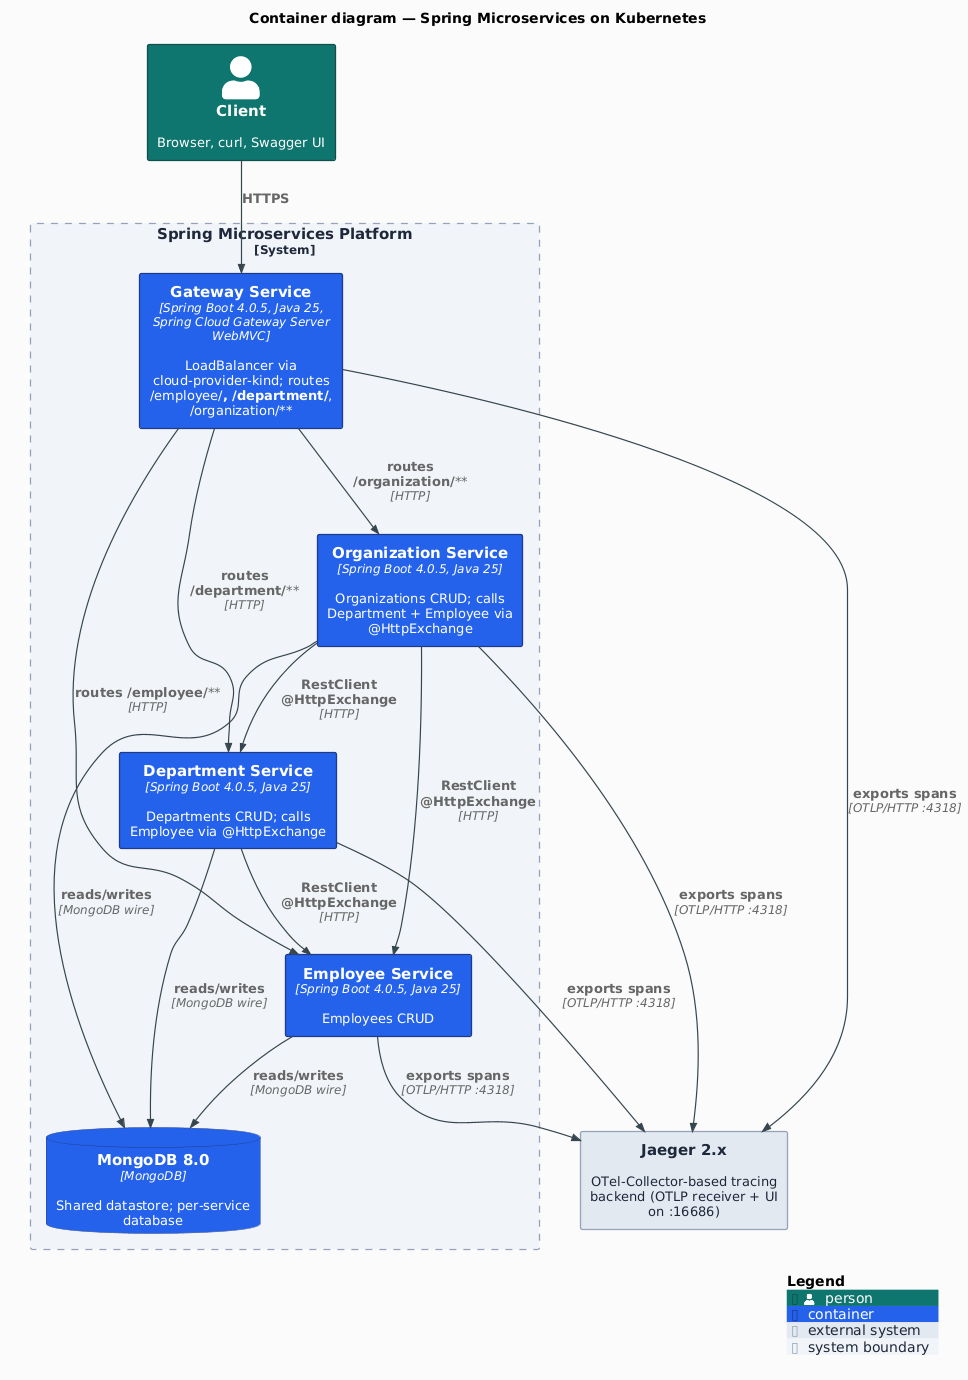
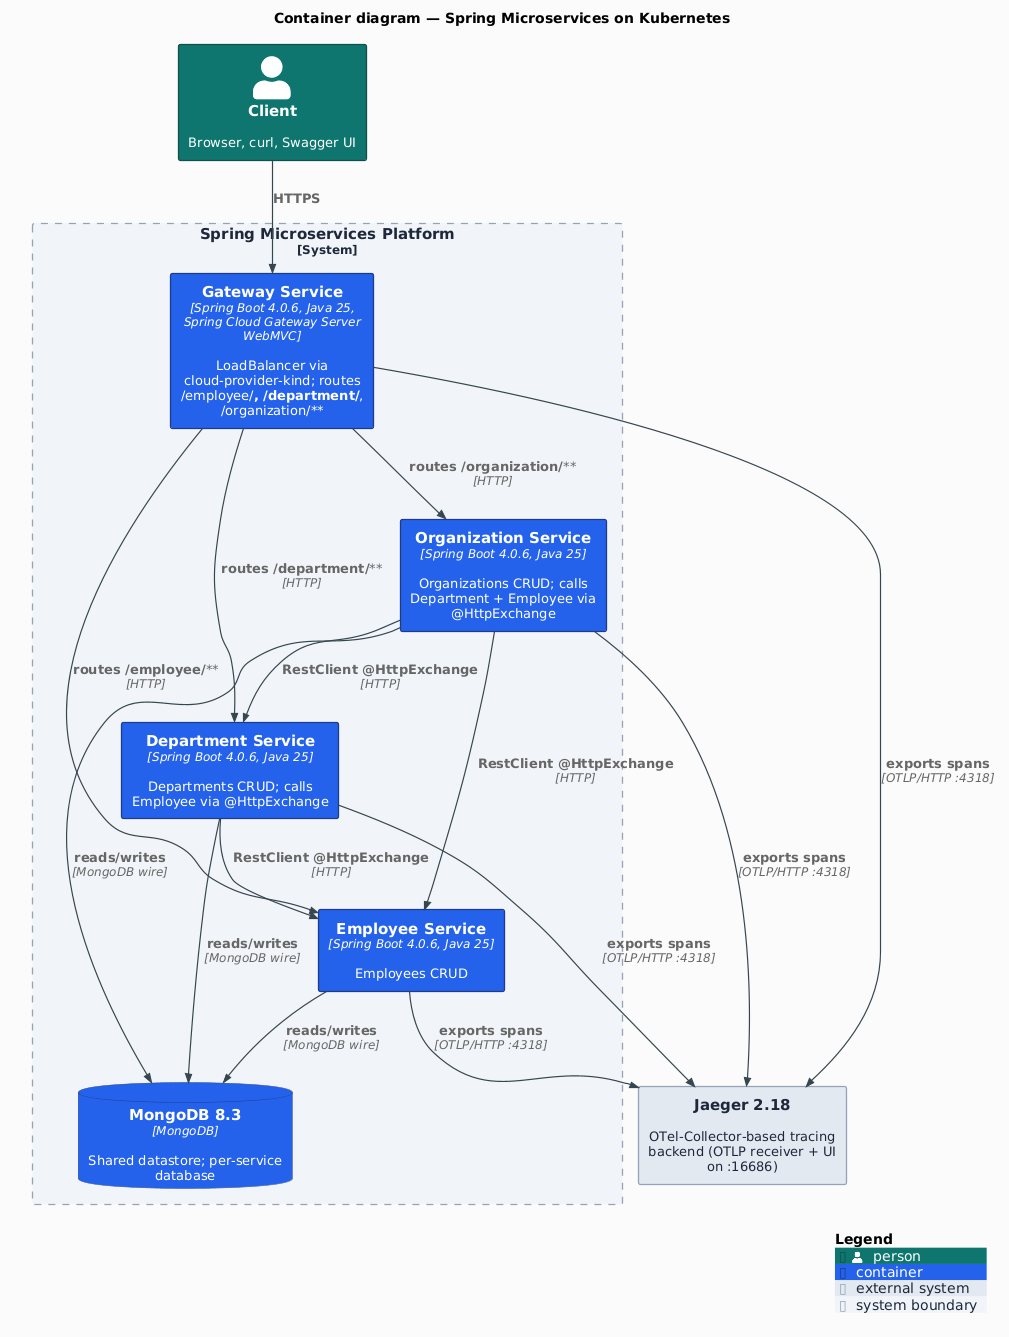
chore: apply project-review fixes across infra and docs (#65)
Phase A — foundation:
- Makefile: drop the duplicate unit-suite run from `ci` (coverage-generate
  already runs `mvn test`); explicit `deps` prereq on `static-check`;
  extract a shared GJF_EXPORTS var; TODO(workaround) anchor on `cve-check`;
  pin `renovate@latest` in `renovate-validate`
- renovate.json: explicit/exhaustive ignorePaths; cross-manager MongoDB
  group; disable automerge on the jackson/tomcat/BouncyCastle CVE overrides
- ci.yml: force `changes.outputs.code`/`e2e` true on tag pushes so a `v*`
  tag at master HEAD cannot empty-diff-skip `cve-check` and ghost-skip the
  release `docker` job
- .nvmrc / .mise.toml: node 22 -> 24 (renovate@latest requires node ^24.11)

Phase A.5 — diagrams:
- c4-container / c4-deployment puml: Spring Boot 4.0.5 -> 4.0.6,
  MongoDB 8.0 -> 8.3, Jaeger -> 2.18 (matches jaegertracing/jaeger:2.18.0);
  regenerated PNGs

Phase B — docs:
- README: align H1 with the GitHub About; architect-voice surface-split
  description; MongoDB 8.3; Java 25 LTS; Quick Start trimmed to 5 commands;
  add `diagrams-clean`; fix sequence-diagram step numbers
- CLAUDE.md: refresh stale backlog rows (jackson 3.1.3, tomcat 11.0.22,
  ODC 12.2.2, mongo 8.3.2, cosign-installer v4.1.2); add the missing
  BouncyCastle CVE-2026-5598 override row; correct the Java-25-is-LTS
  error; refresh Tech Stack versions

Pull request: chore: apply project-review fixes across infra and docs
## Summary

Applies the `/project-review` findings across the project's infrastructure and documentation. Eight parallel review agents (Makefile, CI, Renovate, README, CLAUDE.md, Docker pipeline, test coverage, architecture diagrams) produced 50 findings; this PR applies the actionable subset and declines the false positives with rationale.

### Phase A — foundation

- **Makefile** — `ci` no longer runs the unit suite twice (`coverage-generate` already runs `mvn test`); `static-check` gets an explicit `deps` prereq; shared `GJF_EXPORTS` var; `TODO(workaround)` anchor on `cve-check`; `renovate@latest` pinned in `renovate-validate`.
- **renovate.json** — explicit/exhaustive `ignorePaths`; cross-manager `MongoDB` group; `automerge: false` on the jackson/tomcat/BouncyCastle CVE overrides.
- **ci.yml** — **the one HIGH fix**: a `v*` tag at `master` HEAD could make `dorny/paths-filter` compute an empty diff → `cve-check` skips → the release `docker` job cascade-skips → green run, **zero images published**. `changes.outputs.code`/`e2e` are now forced `true` on tag refs.
- **.nvmrc / .mise.toml** — node 22→24 (`renovate@latest` requires node `^24.11`).

### Phase A.5 — diagrams

C4 puml tech-strings: Spring Boot 4.0.5→4.0.6, MongoDB 8.0→8.3, Jaeger→2.18 (matches `jaegertracing/jaeger:2.18.0`); PNGs regenerated.

### Phase B — docs
[…]

diff --git a/CLAUDE.md b/CLAUDE.md
@@ -36,7 +36,7 @@ make gateway-open  # Open Swagger UI
 
 ```bash
 make test              # Unit + in-process controller tests (Surefire, seconds)
-make integration-test  # Testcontainers + Failsafe **/*IT.java (tens of seconds)
+make integration-test  # Testcontainers + WireMock + Failsafe **/*IT.java (tens of seconds)
 make e2e               # Full Kind-cluster e2e via gateway LoadBalancer (minutes)
 ```
 
@@ -62,13 +62,13 @@ make kind-undeploy # Remove services but keep the cluster running
 
 ## Tech Stack
 
-- Java 25, Spring Boot 4.0, Spring Cloud Kubernetes (2025.1)
+- Java 25 (LTS), Spring Boot 4.0, Spring Cloud Kubernetes (2025.1.1)
 - RestClient with @HttpExchange (inter-service communication)
-- Micrometer Tracing + OpenTelemetry OTLP exporter → Jaeger 2.x (OTel-Collector-based; in-cluster, `observability` namespace; UI exposed via LoadBalancer Service on :16686 — cloud-provider-kind allocates the IP, `make jaeger-open`)
+- Micrometer Tracing + OpenTelemetry OTLP exporter → Jaeger 2.18 (OTel-Collector-based; in-cluster, `observability` namespace; UI exposed via LoadBalancer Service on :16686 — cloud-provider-kind allocates the IP, `make jaeger-open`)
 - Maven multi-module build
 - Docker (multi-arch via buildx)
 - Kubernetes (Kind + cloud-provider-kind for local dev — LoadBalancer Services resolve via the `kind` Docker network)
-- MongoDB 8.0 (official `mongo` image, non-root UID 999, version-pinned for Renovate)
+- MongoDB 8.3 (official `mongo` image, non-root UID 999, version-pinned for Renovate)
 - Testcontainers (integration tests)
 - Checkstyle + hadolint + gitleaks + Trivy + PlantUML drift check + `mermaid-cli` (Mermaid lint) (static analysis composite gate via `make static-check`)
 
@@ -78,17 +78,18 @@ Each row carries an explicit **Revisit-if** list of observable conditions. When 
 
 | # | Item | Status | Revisit-if (any trigger fires → re-open) | Notes |
 |---|------|--------|-----------------------------------------|-------|
-| 1 | Drop `tools.jackson.core:jackson-core` override | **Trigger fired (2026-05-01)** — ready to remove | SB 4.0.6 BOM ships `<jackson-bom.version>3.1.2</jackson-bom.version>`, identical to the override | Module poms pin `tools.jackson.core:jackson-core:3.1.2` in `<dependencyManagement>` to fix **GHSA-2m67-wjpj-xhg9** (HIGH — Document length constraint bypass). Verified via `repo1.maven.org/maven2/org/springframework/boot/spring-boot-dependencies/4.0.6/spring-boot-dependencies-4.0.6.pom`. Action: delete the `<dependency>` block from all 4 module poms; re-render `docs/diagrams/c4-container.puml` + `c4-deployment.puml` (patch version "4.0.5" appears in Container labels; run `make diagrams` and commit `docs/diagrams/out/`). |
-| 1b | Drop `org.apache.tomcat.embed:tomcat-embed-core` override | **Trigger fired (2026-05-01)** — ready to remove | SB 4.0.6 BOM ships `<tomcat.version>11.0.21</tomcat.version>`, identical to the override | Module poms pin `tomcat-embed-core:11.0.21` to fix **CVE-2026-34483 / -34486 / -34487** (all HIGH). Verified via the same SB 4.0.6 BOM lookup. Paired with #1 — same PR removes both overrides and re-renders C4 diagrams. |
-| 1c | Remove `continue-on-error: true` from `cve-check` job's OWASP step | Blocked on upstream fix (dependency-check/DependencyCheck#8424) | - `jeremylong/open-vulnerability-clients#106` closed<br>- OWASP Dependency-Check releases a version > `12.2.1`<br>- NVD rolls back the 9-digit nanosecond timestamp change (check https://nvd.nist.gov/vuln/data-feeds)<br>- A full CI run passes with `continue-on-error` removed locally | **2026-04-15**: NVD changed its API `timestamp` field from 6-digit microsecond to 9-digit nanosecond precision. ODC's Jackson `ZonedDateTime` deserializer in `CveApiJson20` can't parse the new format; every `cve-check` run fails with `DateTimeParseException: unparsed text found at index 23`. Affects ODC 12.2.0 and 12.2.1 (the latest). Upstream maintainer's quote: *"ODC will be broken when using the NVD API for ever"* until the upstream client library is fixed and a new ODC release ships it. Coverage is not lost in the interim — the `image-scan` job runs Trivy with CRITICAL/HIGH blocking on every push across the 4-service matrix, and it catches the same class of CVEs at the image layer (Trivy caught CVE-2026-34483/34486/34487 in tomcat-embed-core 11.0.20 during the ship-it pipeline that introduced this backlog entry). Remove the `continue-on-error: true` flag on the "Run OWASP dependency check" step in `.github/workflows/ci.yml` when any trigger fires. |
-| 2 | `actions/cache` Node 20 deprecation (transitive via `sigstore/cosign-installer`) | Blocked on upstream | - `sigstore/cosign-installer` releases a version past `v4.1.1`<br>- Current date ≥ 2026-08-16 (one month before runner enforcement) and upstream still hasn't shipped | Node 20 hard-removed from GitHub Actions runners **2026-09-16**. The cache action is a transitive dep inside `sigstore/cosign-installer@v4.1.1` — we're already on latest. Renovate will ship the next cosign-installer release automatically. No manual action; track so it doesn't surprise us in Sept. |
-| 3 | Java 25 → Java 29 LTS migration | Planned for Q3–Q4 2027 | - Java 29 GA announced (target 2027-09)<br>- Java 25 security backports end (earlier than Java 29 GA would be unusual but possible) | Java 25 is a non-LTS release (6-month support). Next LTS is **Java 29** (Sep 2027). No action needed now — Temurin 25 still receives security backports through its standard window, and the `eclipse-temurin:25.0.2_10-jre-noble@sha256:…` digest is re-pinned by Renovate when new patches ship. Plan the Java 29 bump when `.java-version`, parent pom `<java.version>`, the `java = "25"` pin in `.mise.toml`, and `JAVA_MAJOR` in the Makefile move together. |
+| 1 | Drop `tools.jackson.core:jackson-core` override | Re-verify before removal — override drifted past the BOM-parity claim | SB 4.0.6 BOM's `<jackson-bom.version>` is confirmed ≥ `3.1.3` — verify via `repo1.maven.org/maven2/org/springframework/boot/spring-boot-dependencies/4.0.6/spring-boot-dependencies-4.0.6.pom` | Module poms pin `tools.jackson.core:jackson-core:3.1.3` in `<dependencyManagement>` to fix **GHSA-2m67-wjpj-xhg9** (HIGH — Document length constraint bypass). Renovate has bumped the override past the original `3.1.1` fix floor, so the earlier "BOM ships an identical version" rationale no longer holds — re-confirm the SB 4.0.6 BOM ships ≥ `3.1.3` before deleting the `<dependency>` block from all 4 module poms. |
+| 1b | Drop `org.apache.tomcat.embed:tomcat-embed-core` override | Re-verify before removal — override drifted past the BOM-parity claim | SB 4.0.6 BOM's `<tomcat.version>` is confirmed ≥ `11.0.22` — verify via the same SB 4.0.6 BOM lookup | Module poms pin `tomcat-embed-core:11.0.22` to fix **CVE-2026-34483 / -34486 / -34487** (all HIGH). Renovate has bumped the override past the original `11.0.21` fix floor; re-confirm the SB 4.0.6 BOM ships ≥ `11.0.22` before deleting. Paired with #1 — same PR removes both overrides. |
+| 1d | Drop `org.bouncycastle:bcpkix/bcutil/bcprov-jdk18on` override | Blocked on upstream — wait for `io.kubernetes:client-java` | `io.kubernetes:client-java` (transitive via `spring-cloud-starter-kubernetes-client-all`) ships a release that pulls BouncyCastle ≥ `1.84` | Module poms pin `bcpkix-jdk18on` / `bcutil-jdk18on` / `bcprov-jdk18on` to `1.84` in `<dependencyManagement>` to fix **CVE-2026-5598** (HIGH — BC-JAVA private key leakage via a non-constant-time operation), pulled in transitively (affected up to and including `1.80`; PR #54, merged 2026-05-07). Renovate's `BouncyCastle` group keeps the three artifacts on the same version. Remove the override block from all 4 module poms once `client-java` pulls `1.84+` directly. |
+| 1c | Remove `continue-on-error: true` from `cve-check` job's OWASP step | Blocked on upstream fix (dependency-check/DependencyCheck#8424) | - `jeremylong/open-vulnerability-clients#106` closed<br>- OWASP Dependency-Check releases a version > `12.2.2`<br>- NVD rolls back the 9-digit nanosecond timestamp change (check https://nvd.nist.gov/vuln/data-feeds)<br>- A full CI run passes with `continue-on-error` removed locally | **2026-04-15**: NVD changed its API `timestamp` field from 6-digit microsecond to 9-digit nanosecond precision. ODC's Jackson `ZonedDateTime` deserializer in `CveApiJson20` can't parse the new format; every `cve-check` run fails with `DateTimeParseException: unparsed text found at index 23`. Affects ODC 12.2.0 through 12.2.2 (the parent pom currently pins `12.2.2`; the `continue-on-error` flag is still required, so 12.2.2 did not fix the parser). Upstream maintainer's quote: *"ODC will be broken when using the NVD API for ever"* until the upstream client library is fixed and a new ODC release ships it. Coverage is not lost in the interim — the `image-scan` job runs Trivy with CRITICAL/HIGH blocking on every push across the 4-service matrix, and it catches the same class of CVEs at the image layer (Trivy caught CVE-2026-34483/34486/34487 in tomcat-embed-core 11.0.20 during the ship-it pipeline that introduced this backlog entry). Remove the `continue-on-error: true` flag on the "Run OWASP dependency check" step in `.github/workflows/ci.yml` when any trigger fires. |
+| 2 | `actions/cache` Node 20 deprecation (transitive via `sigstore/cosign-installer`) | Blocked on upstream | - `sigstore/cosign-installer` releases a version past `v4.1.2`<br>- Current date ≥ 2026-08-16 (one month before runner enforcement) and upstream still hasn't shipped | Node 20 hard-removed from GitHub Actions runners **2026-09-16**. The cache action is a transitive dep inside `sigstore/cosign-installer` — ci.yml now pins `v4.1.2` (Renovate bumped it from v4.1.1). Re-check whether `v4.1.2` still bundles the Node-20 `actions/cache`; if it does, this stays a wait-for-upstream item. Renovate ships each new cosign-installer release automatically. Track so it doesn't surprise us before the 2026-09-16 enforcement. |
+| 3 | Java 25 → Java 29 LTS migration | Optional — Java 25 is LTS, no forced deadline; revisit ~Q4 2027 | - Java 29 GA announced (target 2027-09)<br>- A Java 29 language/API feature the project wants becomes compelling | Java 25 is a **Long-Term-Support release** (Oracle/Temurin moved to a 2-year LTS cadence: 17, 21, 25, 29 — Java 25 is supported into 2033). This migration is therefore a "move to the next LTS when convenient", not a deadline. Temurin 25 receives security backports for years; the `eclipse-temurin:25.0.3_9-jre-noble@sha256:…` digest is re-pinned by Renovate when new patches ship. Plan the Java 29 bump when `.java-version`, each module pom's `<java.version>` (the parent `pom.xml` has no such property — each of the 4 module poms carries its own), the `java = "25"` pin in `.mise.toml`, and `JAVA_MAJOR` in the Makefile move together. |
 | 4 | Spring Boot 4.0 → 4.1 migration | Planned for Q3 2026 | - Spring Boot 4.1 GA announced on https://spring.io/projects/spring-boot (`4.1.0-RC1` is on Maven Central as of 2026-05-01)<br>- Current date ≥ 2026-09-01 (≥ 4 months before EOL)<br>- Spring Boot 4.0 receives a final maintenance release | Spring Boot 4.0 line **EOL 2026-12-31**. Currently on `4.0.6` (latest patch). Track 4.1 GA via Renovate's Spring Boot group; when available, plan migration that updates parent pom version, audits any new deprecations, and re-renders C4 diagrams (Container labels reference `Spring Boot 4.0`). Major migration — read 4.0 → 4.1 release notes for binding changes before the bump. |
-| 5 | MongoDB 8.2 → 8.0 LTS pin (or accept 8.x cadence) | Decision pending | - Current date ≥ 2026-07-01 (within 1 month of 8.2 EOL)<br>- Renovate opens a `mongo:8.3.x` PR (8.2 → 8.3 is a major-line bump, not patch) | `k8s/mongodb-deployment.yaml` pins `mongo:8.2.7@sha256:…`. The 8.2 line **EOLs 2026-07-31** (~3 months from 2026-05-01). Two paths: (a) re-pin to **`mongo:8.0`** LTS (EOL **2029-10-31**) — single Renovate group, less churn; (b) accept the 8.x quarterly-line cadence and let Renovate keep us current (more churn, always-near-EOL). Decision is style — both are safe. If (a), update Renovate to follow 8.0.* tags only. |
+| 5 | MongoDB 8.x cadence — pin `mongo:8.0` LTS or keep riding the quarterly line | Decision pending | - Renovate opens a `mongo:8.4.x` PR (next quarterly-line bump)<br>- The current `8.3` line nears its EOL | `k8s/mongodb-deployment.yaml` now pins `mongo:8.3.2@sha256:…` — Renovate has already moved it 8.2.7 → 8.3.1 → 8.3.2, so the earlier "8.2 → 8.3 bump" trigger has fired. MongoDB quarterly "rapid release" lines are short-lived; **`mongo:8.0`** is the LTS line (EOL **2029-10-31**). Two paths: (a) re-pin to `mongo:8.0` LTS — less churn, always supported (then update Renovate to follow `8.0.*` only); (b) keep accepting the 8.x quarterly cadence and let Renovate keep us current (more churn, always near a line EOL). Decision is style — both are safe. The `MongoDB` Renovate group (added 2026-05-22) now lands the manifest + Testcontainers + docs bumps in one PR. |
 | 6 | `opentelemetry-semconv` 1.37.0 transitive CVEs (CVE-2026-29181, -39883, -39882) | Tracking — wait for Renovate | - Renovate bumps `micrometer-tracing-bridge-otel` (or its transitive `opentelemetry-semconv`) past 1.37.0 with the fixes<br>- Trivy/OWASP severity escalates to CRITICAL on subsequent scans (currently HIGH per `make ci` output) — pin override at that point | Surfaced by `make cve-check` 2026-05-03. `opentelemetry-semconv-1.37.0` is a transitive dep via `micrometer-tracing-bridge-otel`. No direct override possible without pinning the upstream `io.micrometer:micrometer-tracing-bridge-otel` version (which Spring Boot manages). Coverage at the image layer: `image-scan` job's Trivy CRITICAL/HIGH gate catches the same class of CVEs every push. Same deferral rationale as #1c — `cve-check` is `continue-on-error: true` while transitive fixes propagate from upstream. |
 | 7 | `swagger-ui-5.32.2` bundled DOMPurify@3.3.2 CVEs (CVE-2026-41240, -41238, -41239, GHSA-39q2-94rc-95cp) | Tracking — wait for upstream | - `org.springdoc:springdoc-openapi-starter-webmvc-ui` releases a version past `3.0.3` (Renovate-tracked) with an updated `swagger-ui` bundle<br>- A user-facing XSS exploit is reported against an exposed Swagger UI on a public endpoint — escalate to immediate suppression / disable | Surfaced by `make cve-check` 2026-05-03. DOMPurify is a JS dep bundled inside the `swagger-ui-5.32.2.jar` static assets — NOT directly overridable via Maven `<dependencyManagement>` (the override would need to be on `springdoc-openapi-starter-webmvc-ui` itself, which is already pinned to the latest `3.0.3`). Risk is low for this project: Swagger UI is dev-facing, served only behind the gateway LoadBalancer on local KinD; not exposed publicly. Real fix lands when Springdoc bundles a newer swagger-ui (typically follows swagger-api/swagger-ui upstream within weeks). |
 | 8 | OSS Index Analyzer auth migration to "Sonatype Guide" | Tracking — wait for upstream | - `org.owasp:dependency-check-maven` releases a version that supports Sonatype Guide auth (Renovate-tracked)<br>- The `[WARNING] Sonatype OSS Index Analyzer disabled due to missing credentials. Authentication with token is now required` message disappears from `make cve-check` output even with `OSS_INDEX_USER` + `OSS_INDEX_TOKEN` set | Surfaced by `make cve-check` 2026-05-03. Sonatype announced OSS Index migration to Sonatype Guide; the existing settings.xml `<server id="ossindex">` form may no longer match the new auth path. Coverage gap: while OSS Index Analyzer is disabled, OWASP relies on the NVD analyzer alone for CVE data — slightly weaker. NVD analyzer still runs (the `nvd` server entry from `maven-settings-ossindex` provides the API key via the safe `nvdApiServerId` pattern). Trivy image scan in `image-scan` job catches the gap at runtime. |
-| 9 | `repo.spring.release` 401 on BouncyCastle metadata | Tracking — investigate when convenient | - The `[WARNING] Could not transfer metadata org.bouncycastle:bc{util,prov}-jdk18on/maven-metadata.xml ... status code: 401` warning disappears from `make ci` / `make e2e` output<br>- Spring's repository policy changes (gates `release` repo behind auth) | Surfaced repeatedly during `make ci` and `make e2e` 2026-05-03. Module poms include `<repository>repository.spring.release</repository>` (line 91-95 in gateway-service/pom.xml + others); BouncyCastle is on Maven Central but Maven tries Spring's `release` repo first per declaration order and gets 401. Possibly fixable by reordering so Maven Central is consulted first, or removing the Spring `release` repo if no Spring artefacts actually require it (Spring Boot 4.0.6 GA artefacts are on Maven Central; `release` repo is mainly for non-GA milestones). Cost of doing nothing: noisy build output (4× per `make ci`), no functional impact (Maven falls through to Central). |
+| 9 | `repo.spring.release` 401 on BouncyCastle metadata | Tracking — investigate when convenient | - The `[WARNING] Could not transfer metadata org.bouncycastle:bc{util,prov}-jdk18on/maven-metadata.xml ... status code: 401` warning disappears from `make ci` / `make e2e` output<br>- Spring's repository policy changes (gates `release` repo behind auth) | Surfaced repeatedly during `make ci` and `make e2e` 2026-05-03. Module poms include a `<repository>repository.spring.release</repository>` block; BouncyCastle is on Maven Central but Maven tries Spring's `release` repo first per declaration order and gets 401. Possibly fixable by reordering so Maven Central is consulted first, or removing the Spring `release` repo if no Spring artefacts actually require it (Spring Boot 4.0.6 GA artefacts are on Maven Central; `release` repo is mainly for non-GA milestones). Cost of doing nothing: noisy build output (4× per `make ci`), no functional impact (Maven falls through to Central). |
 
 ## Skills
 

diff --git a/README.md b/README.md
@@ -3,11 +3,11 @@
 [![License: MIT](https://img.shields.io/badge/License-MIT-brightgreen.svg)](https://opensource.org/licenses/MIT)
 [![Renovate enabled](https://img.shields.io/badge/renovate-enabled-brightgreen.svg)](https://app.renovatebot.com/dashboard#github/AndriyKalashnykov/spring-microservices-k8s)
 
-# Spring Boot microservices on Kubernetes with Spring Cloud, MongoDB, and Kind dev cluster
+# Runnable Spring Boot 4 Microservices on Kind
 
-Reference implementation of Spring Boot + Spring Cloud Kubernetes microservices with full CI hardening.
+Reference implementation of four Spring Boot 4 microservices — gateway, organization, department, employee — deployed to a local Kind cluster in one command, with Spring Cloud Kubernetes cross-namespace service discovery.
 
-Four services (gateway, organization, department, employee) deploy to isolated namespaces on a local Kind cluster with one command. The stack is fully wired: cross-namespace service discovery, inter-service REST calls via `@HttpExchange`, MongoDB persistence, distributed tracing, and an API gateway with Swagger UI. CI runs 8 pipeline stages — `static-check`, `build`, `test` (Surefire unit), `integration-test` (Failsafe + Testcontainers), `cve-check` (OWASP), `image-scan` (per-service Trivy + Spring Boot smoke test), `e2e` (full Kind stack), and `docker` (multi-arch publish with SLSA provenance + cosign signing). Everything is `make`-driven — `make kind-up` to run it, `make ci` to validate it, `make kind-down` to tear it down.
+The **runtime surface** is a Spring Cloud Gateway fronting REST services that call each other through declarative `@HttpExchange` clients, persist to MongoDB, and emit W3C-`traceparent` spans via Micrometer → OpenTelemetry OTLP → Jaeger, with Actuator health probes and a unified Swagger UI. The **delivery surface** is a Maven multi-module build, a `make static-check` composite quality gate, a three-layer test pyramid (Surefire unit → Testcontainers integration → full Kind e2e), and a hardened GHCR image pipeline (Trivy image scan + Spring Boot smoke test + SLSA provenance + SBOM + cosign keyless signing) — all from a mise-pinned toolchain with Renovate-managed dependencies, driven by `make kind-up` / `make ci` / `make kind-down`.
 
 <p align="center"><img src="docs/diagrams/out/c4-container.png" alt="C4 Container diagram — Spring Microservices on Kubernetes" width="720"></p>
 
@@ -15,12 +15,12 @@ Source: [`docs/diagrams/c4-container.puml`](docs/diagrams/c4-container.puml) —
 
 | Component | Technology | Rationale |
 |-----------|-----------|-----------|
-| Language | Java 25 | Current LTS-grade release; virtual threads + pattern matching + records make Spring Boot 4 code terser and more concurrent |
+| Language | Java 25 | Current LTS release (Oracle/Temurin 2-year LTS cadence, supported into 2033); virtual threads + pattern matching + records make Spring Boot 4 code terser and more concurrent |
 | Framework | Spring Boot 4.0, Spring Cloud 2025.1 | Mainstream Java microservices stack; Spring Boot 4 drops Spring Boot 2.x compat, adopts Jakarta EE 10, cleaner auto-configuration |
 | API Gateway | Spring Cloud Gateway Server WebMVC | Servlet-stack gateway (not reactive WebFlux) — simpler mental model, easier to instrument, matches the blocking RestClient used elsewhere |
 | Inter-service | RestClient with `@HttpExchange` | Native Spring declarative HTTP client; replaces Feign without pulling Netflix OSS; works with Spring Cloud LoadBalancer for service-discovery-aware calls |
 | Service Discovery | Spring Cloud Kubernetes | Uses the Kubernetes API as the registry — no Eureka/Consul to operate; `all-namespaces: true` enables cross-namespace discovery |
-| Database | MongoDB 8.0 (official `mongo` image, non-root UID 999, version-pinned) | Document model fits the Organization → Department → Employee aggregates without a migration toolchain; official image pinned for Renovate tracking |
+| Database | MongoDB 8.3 (official `mongo` image, non-root UID 999, version-pinned) | Document model fits the Organization → Department → Employee aggregates without a migration toolchain; official image pinned for Renovate tracking |
 | API Docs | SpringDoc OpenAPI 3.0 / Swagger UI | Auto-generates OpenAPI 3 from `@RestController` annotations; gateway surfaces a unified Swagger UI across all services |
 | Tracing | Micrometer Tracing → OpenTelemetry OTLP → Jaeger | Spans propagate across all four services via W3C `traceparent`, export over OTLP/HTTP to in-cluster Jaeger (`observability` namespace); UI via `make jaeger-open` |
 | Testing | Surefire (unit), Testcontainers (integration), Kind (e2e) | Three-layer pyramid: Surefire `*Test` for in-process controller slices, Failsafe `*IT` with real MongoDB per class (no mocking), real Kind cluster for e2e — catches schema drift and manifest bugs that in-process tests miss |
@@ -36,7 +36,6 @@ make deps          # check required tools
 make kind-up       # full cluster lifecycle: Kind + cloud-provider-kind + MongoDB + Jaeger + 4 services
 make e2e-test      # run end-to-end API tests
 make gateway-open  # open Swagger UI in browser
-make jaeger-open   # open Jaeger tracing UI in browser
 make kind-down     # tear everything down when finished
 ```
 
@@ -120,7 +119,7 @@ sequenceDiagram
   G-->>C: 200 application/json
 ```
 
-Steps 3–10 all happen inside the cluster via ClusterIP Services resolved through Spring Cloud Kubernetes `DiscoveryClient`. The gateway only sees the outer request (1) and final response (13). Trace headers (`traceparent`) propagate through every hop via Micrometer Tracing.
+Steps 2–13 all happen inside the cluster via ClusterIP Services resolved through Spring Cloud Kubernetes `DiscoveryClient`. The client sees only the outer request (1) and the final response (14). Trace headers (`traceparent`) propagate through every hop via Micrometer Tracing.
 
 See the full [Reference Architecture](docs/reference-architecture.md) for the Deployment diagram, Kubernetes DNS table, and per-manifest configuration details, and [Architecture Decision Records](docs/adr/) for the rationale behind key choices.
 
@@ -198,6 +197,7 @@ Three-layer test pyramid: unit → integration → end-to-end. Each layer runs i
 | `make trivy-config` | Scan Kubernetes manifests for security misconfigurations (KSV-*) |
 | `make diagrams` | Render PlantUML architecture diagrams under `docs/diagrams/` to PNG |
 | `make diagrams-check` | Verify committed PNGs match current `.puml` source (drift check for CI) |
+| `make diagrams-clean` | Remove rendered diagram PNGs |
 | `make cve-check` | Run OWASP dependency vulnerability scan |
 | `make coverage-generate` | Generate code coverage report |
 | `make coverage-check` | Verify code coverage meets minimum threshold |